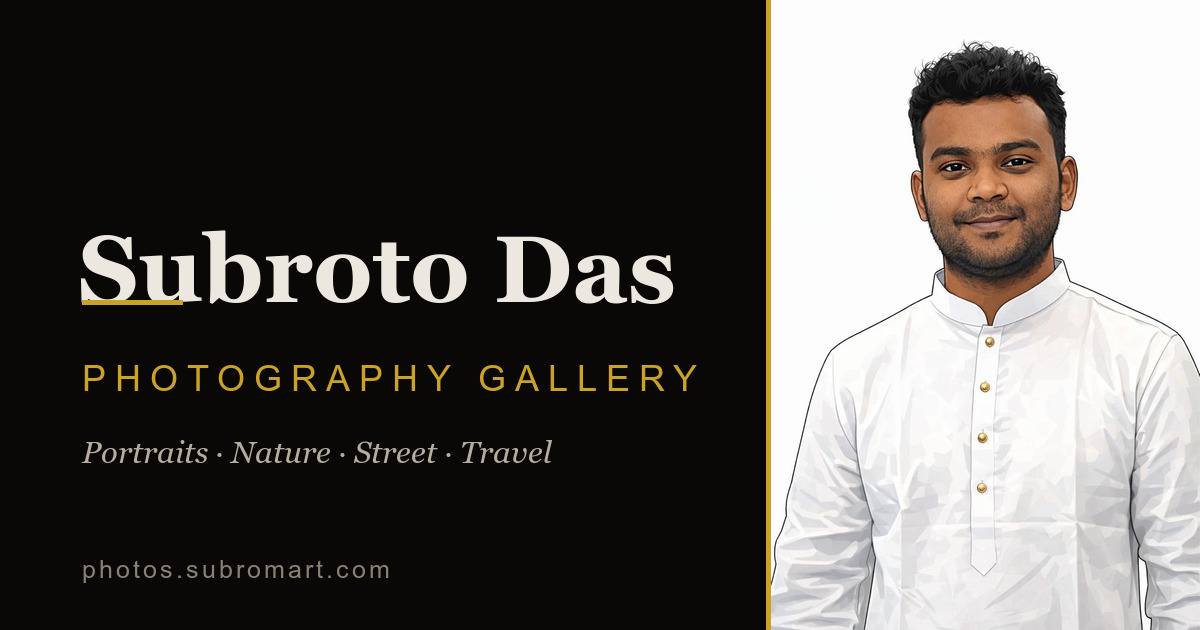
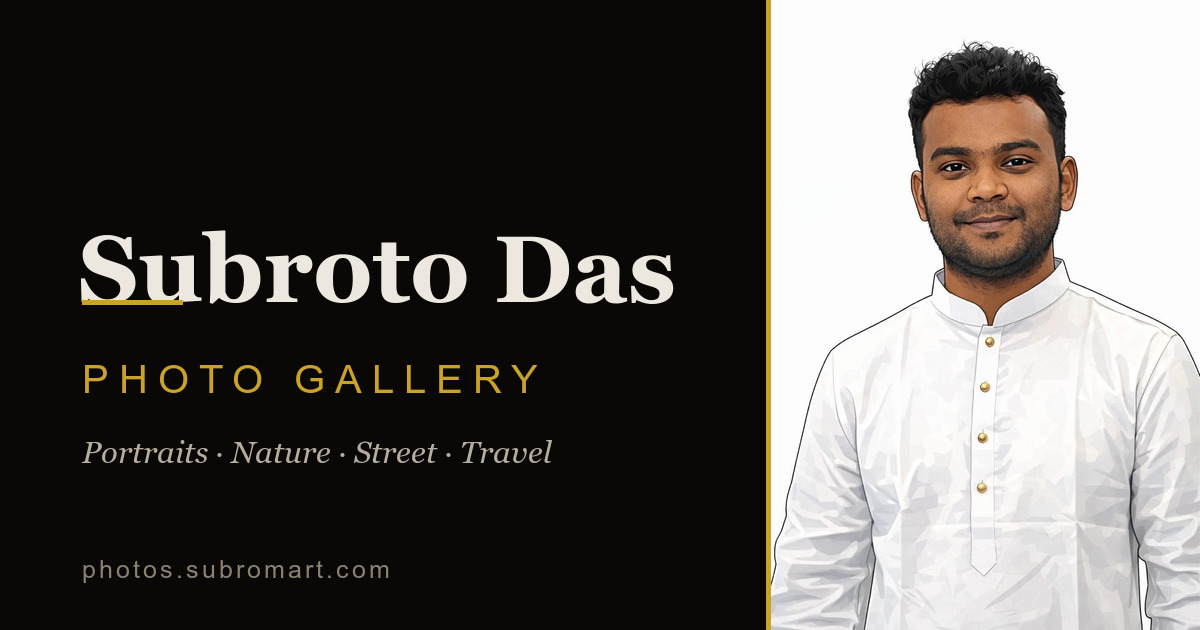
Rebrand "Subroto Das Photography" to "Subroto Das Photos" across title, h1, OG card, schema

Changed region(s): [[0.0617, 0.573, 0.5858, 0.6333]]

diff --git a/index.html b/index.html
@@ -3,7 +3,7 @@
 <head>
     <meta charset="UTF-8">
     <meta name="viewport" content="width=device-width,initial-scale=1">
-    <title>Subroto Das Photography — Portraits, Nature &amp; Travel Gallery</title>
+    <title>Subroto Das Photos — Portraits, Nature &amp; Travel Gallery</title>
     <meta name="description" content="Explore the official photography gallery of Subroto Das — portraits, nature, street and travel photos, each with capture date and camera details.">
     <meta name="author" content="Subroto Das">
     <meta name="keywords" content="Subroto Das, Subroto, Subroto Das photography, Subroto Das photos, Subroto Das gallery, Subroto Das photographer, SubroMart, ASG Shop, asgshop, Apar's Classroom, ACS, aparsclassroom, Subroto Das Software Engineer, Subroto Das Full Stack Developer, CSE, engineer, software engineer, full stack developer, Subroto Das travel photography, Subroto Das food photography, Subroto Das fashion, photos.subromart.com, Subroto Das portfolio">
@@ -14,23 +14,23 @@
     <link rel="apple-touch-icon" href="https://me.subromart.com/favicon.png">
     <link rel="canonical" href="https://photos.subromart.com/">
     <meta property="og:type" content="website">
-    <meta property="og:site_name" content="Subroto Das Photography">
+    <meta property="og:site_name" content="Subroto Das Photos">
     <meta property="og:locale" content="en_US">
     <meta property="og:url" content="https://photos.subromart.com/">
-    <meta property="og:title" content="Subroto Das Photography Gallery">
+    <meta property="og:title" content="Subroto Das Photos">
     <meta property="og:description" content="Official photography gallery of Subroto Das — portraits, nature, street and travel photos.">
     <meta property="og:image" content="https://photos.subromart.com/og-card.jpg">
     <meta property="og:image:secure_url" content="https://photos.subromart.com/og-card.jpg">
     <meta property="og:image:type" content="image/jpeg">
     <meta property="og:image:width" content="1200">
     <meta property="og:image:height" content="630">
-    <meta property="og:image:alt" content="Subroto Das Photography Gallery">
+    <meta property="og:image:alt" content="Subroto Das Photos">
     <meta name="twitter:card" content="summary_large_image">
-    <meta name="twitter:title" content="Subroto Das Photography Gallery">
+    <meta name="twitter:title" content="Subroto Das Photos">
     <meta name="twitter:description" content="Official photography gallery of Subroto Das — portraits, nature, street and travel photos.">
     <meta name="twitter:image" content="https://photos.subromart.com/og-card.jpg">
-    <meta name="twitter:image:alt" content="Subroto Das Photography Gallery">
-    <script type="application/ld+json">{"@context":"https://schema.org","@graph":[{"@type":"WebSite","@id":"https://photos.subromart.com/#website","url":"https://photos.subromart.com/","name":"Subroto Das Photography","description":"Official photography gallery of Subroto Das","inLanguage":"en","publisher":{"@id":"https://photos.subromart.com/#person"},"potentialAction":{"@type":"SearchAction","target":{"@type":"EntryPoint","urlTemplate":"https://photos.subromart.com/?q={search_term_string}"},"query-input":"required name=search_term_string"}},{"@type":"Person","@id":"https://photos.subromart.com/#person","name":"Subroto Das","alternateName":["Subroto","Subroto Das","সুব্রত দাস","SubroMart"],"givenName":"Subroto","familyName":"Das","jobTitle":["Software Engineer","Full Stack Developer"],"description":"Subroto Das is a Software Engineer and Full Stack Developer (Computer Science & Engineering, CSE) at Apar's Classroom (ACS). Known online as Subroto and through SubroMart and ASG Shop, he shares his personal travel, food, fashion and portrait photography.","email":"subroto.das@asgshop.com.bd","image":"https://photos.subromart.com/og-card.jpg","worksFor":[{"@type":"Organization","name":"Apar's Classroom","alternateName":["ACS","Aparsclassroom","Apar's Classroom (ACS)"]},{"@type":"Organization","name":"ASG Shop","alternateName":"asgshop"}],"knowsAbout":["Software Engineering","Full Stack Development","Computer Science and Engineering","Web Development","Photography","Travel Photography","Food Photography","Fashion Photography","Portrait Photography"],"url":"https://me.subromart.com","mainEntityOfPage":"https://photos.subromart.com/","sameAs":["https://me.subromart.com","https://subromart.com","https://systems.subromart.com","https://github.com/subroto23"]},{"@type":"ImageGallery","@id":"https://photos.subromart.com/#gallery","name":"Subroto Das Photo Gallery","url":"https://photos.subromart.com/","isPartOf":{"@id":"https://photos.subromart.com/#website"},"about":{"@id":"https://photos.subromart.com/#person"},"author":{"@id":"https://photos.subromart.com/#person"},"creator":{"@id":"https://photos.subromart.com/#person"}}]}</script>
+    <meta name="twitter:image:alt" content="Subroto Das Photos">
+    <script type="application/ld+json">{"@context":"https://schema.org","@graph":[{"@type":"WebSite","@id":"https://photos.subromart.com/#website","url":"https://photos.subromart.com/","name":"Subroto Das Photos","description":"Official photo gallery of Subroto Das","inLanguage":"en","publisher":{"@id":"https://photos.subromart.com/#person"},"potentialAction":{"@type":"SearchAction","target":{"@type":"EntryPoint","urlTemplate":"https://photos.subromart.com/?q={search_term_string}"},"query-input":"required name=search_term_string"}},{"@type":"Person","@id":"https://photos.subromart.com/#person","name":"Subroto Das","alternateName":["Subroto","Subroto Das","সুব্রত দাস","SubroMart"],"givenName":"Subroto","familyName":"Das","jobTitle":["Software Engineer","Full Stack Developer"],"description":"Subroto Das is a Software Engineer and Full Stack Developer (Computer Science & Engineering, CSE) at Apar's Classroom (ACS). Known online as Subroto and through SubroMart and ASG Shop, he shares his personal travel, food, fashion and portrait photography.","email":"subroto.das@asgshop.com.bd","image":"https://photos.subromart.com/og-card.jpg","worksFor":[{"@type":"Organization","name":"Apar's Classroom","alternateName":["ACS","Aparsclassroom","Apar's Classroom (ACS)"]},{"@type":"Organization","name":"ASG Shop","alternateName":"asgshop"}],"knowsAbout":["Software Engineering","Full Stack Development","Computer Science and Engineering","Web Development","Photography","Travel Photography","Food Photography","Fashion Photography","Portrait Photography"],"url":"https://me.subromart.com","mainEntityOfPage":"https://photos.subromart.com/","sameAs":["https://me.subromart.com","https://subromart.com","https://systems.subromart.com","https://github.com/subroto23"]},{"@type":"ImageGallery","@id":"https://photos.subromart.com/#gallery","name":"Subroto Das Photo Gallery","url":"https://photos.subromart.com/","isPartOf":{"@id":"https://photos.subromart.com/#website"},"about":{"@id":"https://photos.subromart.com/#person"},"author":{"@id":"https://photos.subromart.com/#person"},"creator":{"@id":"https://photos.subromart.com/#person"}}]}</script>
     <link rel="preconnect" href="https://fonts.googleapis.com"><link rel="preconnect" href="https://fonts.gstatic.com" crossorigin>
     <link href="https://fonts.googleapis.com/css2?family=Cormorant+Garamond:ital,wght@0,400;0,500;0,600;1,400&family=Inter:wght@300;400;500;600&display=swap" rel="stylesheet">
     <script src="https://unpkg.com/lucide@latest"></script>
@@ -62,7 +62,7 @@
     <main id="gallery">
         <header class="gallery-intro">
             <div class="seo-text">
-                <h1>Subroto Das Photography — সুব্রত দাস ফটোগ্রাফি</h1>
+                <h1>Subroto Das Photos — সুব্রত দাসের ছবি</h1>
                 <p>The official photo gallery of Subroto Das, Software Engineer at Apar's Classroom — a personal collection of portraits, nature, street, travel and everyday moments captured by Subroto Das.</p>
                 <p>সুব্রত দাসের অফিসিয়াল ফটো গ্যালারি। সুব্রত দাস, অ্যাপার'স ক্লাসরুমের একজন সফটওয়্যার ইঞ্জিনিয়ার — প্রতিকৃতি, প্রকৃতি, রাস্তা, ভ্রমণ এবং প্রতিদিনের মুহূর্তের একটি ব্যক্তিগত ছবির সংগ্রহ, যা তুলেছেন সুব্রত দাস।</p>
             </div>
@@ -83,7 +83,7 @@
     <footer>
         <div class="f-line"></div>
         <section class="f-about">
-            <h2>About Subroto Das — Photography Gallery</h2>
+            <h2>About Subroto Das Photos</h2>
             <p>Subroto Das is a Software Engineer and Full Stack Developer (Computer Science &amp; Engineering, CSE) at Apar's Classroom (ACS). Known online simply as Subroto, and through SubroMart and ASG Shop, he keeps photography as a personal passion. This is the official photo gallery of Subroto Das, and every photograph here is his own original work.</p>
             <p>The collection reflects the everyday life of Subroto Das. You will find his travel photography from trips and tours, his food photography, his fashion photos, and his own self-portraits and personal pictures. It also includes nature, street, portrait and architecture photography. Browse the work of Subroto Das by category, or filter it by the date each photo was taken.</p>
             <p>If you are looking for Subroto Das, Subroto, SubroMart, ASG Shop, Apar's Classroom (ACS) or the engineer and full stack developer Subroto Das, this gallery collects his photographs in one place. Each image keeps its real camera details — model, aperture, ISO and focal length — and new photos by Subroto Das are added regularly.</p>

diff --git a/script.js b/script.js
@@ -370,7 +370,7 @@
     function withName(s, suffix) { return hasName(s) ? s : (s ? `${s}${suffix}` : 'Photo by Subroto Das'); }
 
     function seoAlt(p) {
-        const base = (p.alt && p.alt.trim()) ? p.alt.trim() : `${seoTitle(p)} | Subroto Das Photography`;
+        const base = (p.alt && p.alt.trim()) ? p.alt.trim() : `${seoTitle(p)} | Subroto Das Photos`;
         return withName(base, ' — Photo by Subroto Das');
     }
     function seoDesc(p) {
